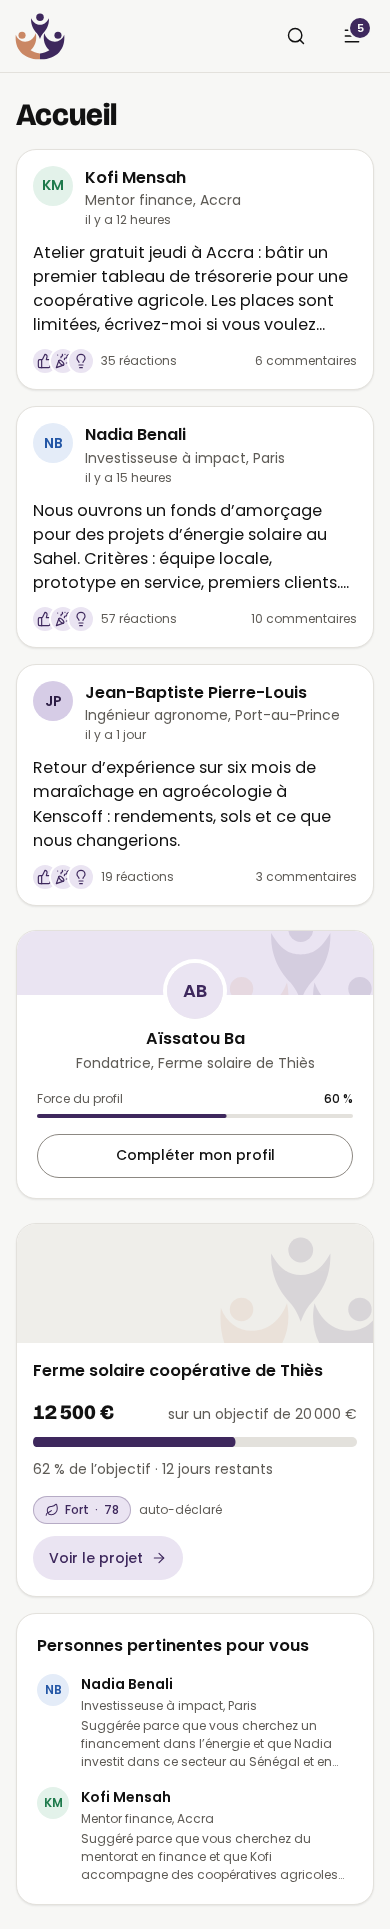
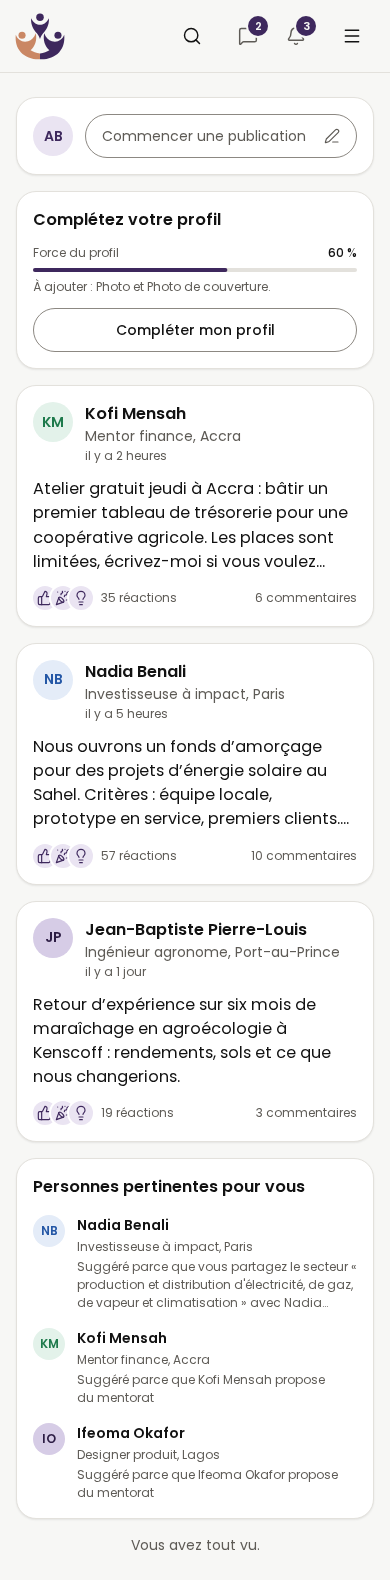
docs(design): regenerate the captures of the member shell and the profile

diff --git a/docs/design/review/README.md b/docs/design/review/README.md
@@ -6,9 +6,9 @@ Captures des compositions de référence de Storybook (`apps/web/src/stories/com
 
 Fichiers `<composition>-<format>-<thème>.png` : format `desktop` (1280x800) ou `mobile` (390x844), thème `light` ou `dark`, page entière, mouvement réduit, langue française, polices de la marque, anticrénelage en niveaux de gris (`--disable-lcd-text` : l'anticrénelage sous-pixel de l'image dessinait des liserés colorés sur les grands textes gras, un artefact de la capture, pas un effet de la page).
 
-- `member-shell-loading` : cadre membre (bandeau, compteurs, trois colonnes), fil en squelettes.
-- `member-shell-loaded` : le même cadre, fil chargé, carte de profil, carte de projet compacte, suggestions avec leur raison.
-- `profile-card-story` : carte de profil avec force du profil.
+- `member-shell-loading` : cadre membre (bandeau, compteurs ; sur téléphone, Messages et Notifications au bandeau), composeur, fil en squelettes.
+- `member-shell-loaded` : le même cadre, fil chargé sans titre visible ; sur ordinateur, profil à gauche, projet compact et suggestions à droite ; sur téléphone, complétion du profil en tête du fil et suggestions après le troisième élément.
+- `profile-card-story` : `ProfileCompletion` en carte (colonne gauche) et en module (tête du fil sur téléphone).
 - `project-card-story` : `ProjectCard` en variantes `full` (paliers et leur état) et `compact`, montants sans décimales, impact teinté.
 - `notifications-list` : `NotificationItem`, lues et non lues : colonne média fixe, pastille du type, extrait de la publication, demande de connexion à accepter ou ignorer sur place.
 - `conversation` : `ConversationThread` sur deux jours (séparateurs, groupes, heure courte, « Lu ») et `MessageComposer` (hauteur automatique, pièce jointe).
